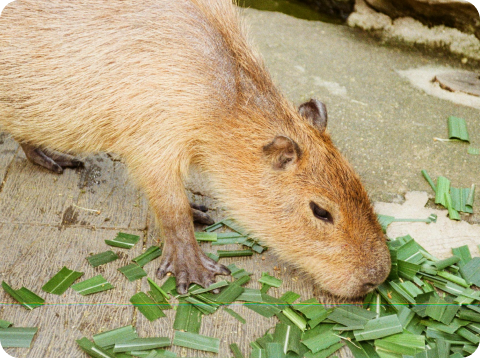
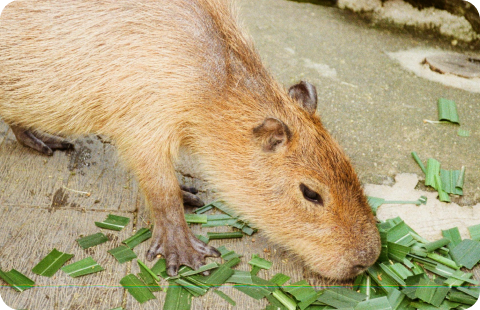
Revisions2 5.1

diff --git a/about.html b/about.html
@@ -87,40 +87,30 @@
           </div>
         </div>
 
-        <div class="subheading-text">
+        <div class="subheading-text" style="padding-bottom: 1.8rem">
           <h3>A Peaceful Place to Slow Down</h3>
         </div>
-        <div class="bodytext">
+        <div class="bodytext padding-bottom-story">
           <div class="storyimg1">
             <img src="assets/story1.png" width="100%" height="100%" />
           </div>
-          <p>
-            Capybara Connection began with a simple idea: create a welcoming
-            space where people can slow down and experience meaningful moments
-            with animals. In a world that often feels rushed and noisy, we’ve
-            built a peaceful farm setting where guests can pause, breathe
-            deeply, and enjoy the quiet joy of connecting with gentle, curious
-            animals.
+          <p class="no-margin">
+            Capybara Connection was created as a welcoming space to slow down
+            and connect with animals. In a calm, open farm setting, guests can
+            pause, breathe, and enjoy meaningful interactions with gentle,
+            curious capybaras.
           </p>
           <p>
-            Our facility is home to seven rescued capybaras, along with goats,
-            sheep, and rabbits. Each capybara in our care has a unique story,
-            and providing a safe, enriched home for them is at the heart of
-            everything we do. From spacious habitats and fresh produce to
-            enrichment that encourages natural behaviors, their wellbeing always
-            comes first.
+            Our facility is home to rescued capybaras along with goats, sheep,
+            and rabbits. Each animal is cared for in a safe, enriched
+            environment that supports their wellbeing and natural behaviors.
           </p>
           <p>
-            As a nonprofit organization, we rely on community support to
-            continue offering high-quality care and thoughtful, personal
-            experiences for every guest. Every visit and donation directly
-            supports the daily care and enrichment of our animals. Your support
-            helps us continue expanding enrichment programs and improving our
-            animals’ habitats for years to come.
+            As a nonprofit, we rely on community support to continue providing
+            high-quality animal care and thoughtful, personal experiences for
+            every guest.
           </p>
         </div>
-
-        <hr class="styled-hr-story" />
 
         <div class="subheading-text">
           <h3>Experiences Designed for Connection</h3>
@@ -129,29 +119,22 @@
           <div class="storyimg2">
             <img src="assets/story2.png" width="100%" height="100%" />
           </div>
-          <p>
-            Every visit to Capybara Connection is intentionally designed to feel
-            relaxed, personal, and engaging. Whether you choose a Private
-            Capybara Encounter or time in Capybara Commons, you’ll have the
-            opportunity to connect with our animals in a calm and welcoming
-            environment.
+          <p class="no-margin">
+            Every visit to Capybara Connection is designed to feel relaxed,
+            personal, and engaging. Whether you choose a private encounter or
+            time in Capybara Commons, you’ll have the opportunity to connect
+            with our animals in a calm, welcoming environment.
           </p>
           <p>
-            Our private encounters offer dedicated, guided time with two
-            capybaras in a small-group setting, allowing guests to learn about
-            their personalities and natural behaviors while enjoying safe,
-            supervised interaction. Full access to Capybara Commons is included
-            with every private encounter. In our open farm area, guests can meet
-            the capybaras and their friendly animal neighbors in a warm,
-            hands-on setting. We also offer sensory-friendly hours on Tuesdays,
-            creating a quieter, lower-stimulation experience for those who
-            prefer a more peaceful pace.
+            Our private encounters offer guided, small-group interaction with
+            capybaras, while our open farm area provides a warm, hands-on
+            experience with capybaras and other friendly animals.
+            Sensory-friendly hours on Tuesdays offer a quieter,
+            lower-stimulation option.
           </p>
           <p>
-            We hope each guest leaves feeling refreshed, inspired, and a little
-            more connected to the animals and the natural world around them.
-            Whether it’s your first visit or your fifth, there’s always
-            something new to notice and appreciate.
+            We hope each guest leaves feeling refreshed, inspired, and more
+            connected to the animals.
           </p>
         </div>
       </div>

diff --git a/css/capystyles.css b/css/capystyles.css
@@ -120,7 +120,7 @@ h4 {
   display: flex;
   justify-content: center;
   width: 100%;
-  padding: 0 0.5rem 6.25rem 0.5rem;
+  padding: 0 0.6rem 6.25rem 0.6rem;
 }
 
 .greenbg {
@@ -376,7 +376,7 @@ tr > th:last-child {
   display: flex;
   flex-direction: column;
   gap: 1rem;
-  padding: 1.5rem;
+  padding: 1.75rem;
   color: #fbfbf4;
 }
 
@@ -647,7 +647,7 @@ tr > th:last-child {
   flex-direction: column;
   flex: 0 1 55%;
   position: relative;
-  border-radius: 80px 20px 80px 20px;
+  border-radius: 70px 15px 70px 15px;
   padding: 3.44rem 4%;
   gap: 24px;
   background-color: #fbfbf4;
@@ -682,7 +682,7 @@ tr > th:last-child {
   max-width: 480px;
   min-width: 450px;
   height: auto;
-  border-radius: 20px 20px 20px 70px;
+  border-radius: 15px 15px 15px 65px;
   overflow: hidden;
   margin-bottom: 1rem;
 }
@@ -695,14 +695,14 @@ tr > th:last-child {
   max-width: 480px;
   min-width: 450px;
   height: auto;
-  border-radius: 20px 70px 20px 20px;
+  border-radius: 15px 65px 15px 15px;
   overflow: hidden;
   margin-bottom: 1rem;
 }
 
 .date-range {
   width: 100%;
-  padding: 1.875rem 3.125rem;
+  padding: 1.45rem 3.125rem;
   background-color: #8c6b4f;
   color: #fbfbf4;
 }
@@ -712,10 +712,12 @@ tr > th:last-child {
   flex-direction: column;
   flex: 1;
   gap: 30px;
-  padding: 2.18rem 3.125rem 3.125rem 3.125rem;
+  padding: 1.875rem 3.125rem 2.5rem 3.125rem;
   background-color: #f2edd0;
-  font-size: 1.3rem;
-  line-height: 1.8;
+  font-family: "Bonnie", sans-serif;
+  font-weight: 600;
+  font-size: 1.25rem;
+  line-height: 1.4;
   letter-spacing: 0%;
   color: #265269;
 }
@@ -801,12 +803,15 @@ tr > th:last-child {
   margin: 0 auto;
 }
 
+.no-margin {
+  margin: 0;
+}
+
 .storyimg1 {
   float: right;
   width: 48%;
   max-width: 480px;
   height: auto;
-  border-radius: 20px;
   overflow: hidden;
   margin: 0 0 1.25rem 2.5rem;
 }
@@ -816,18 +821,12 @@ tr > th:last-child {
   width: 48%;
   max-width: 480px;
   height: auto;
-  border-radius: 20px;
   overflow: hidden;
-  margin: 0 2.5rem 1.25rem 0;
+  margin: 0 2.5rem 0 0;
 }
 
-.styled-hr-story {
-  border: none;
-  height: 1px;
-  background-color: #c74a3a;
-  width: 100%;
-  max-width: 1000px;
-  margin: 35px auto;
+.padding-bottom-story {
+  padding-bottom: 3.75rem;
 }
 
 .team-card-text {
@@ -936,13 +935,8 @@ tr > th:last-child {
   height: 300px;
 }
 
-.styled-hr-lightbox {
-  border: none;
-  height: 1px;
-  background-color: #c74a3a;
-  width: 100%;
-  max-width: 1125px;
-  margin: 50px auto;
+.padding-bottom-lightbox {
+  padding-bottom: 2.625rem;
 }
 
 /* START STYLING LIGHTBOX */
@@ -1106,7 +1100,7 @@ img.hover-shadow {
   flex-direction: column;
   flex: 0 0 53%;
   position: relative;
-  border-radius: 80px 20px 80px 20px;
+  border-radius: 70px 15px 70px 15px;
   padding: 3.44rem 4%;
   gap: 1.5rem;
   background-color: #fbfbf4;
@@ -1170,8 +1164,12 @@ img.hover-shadow {
   transform: rotate(90deg);
 }
 
+.padding-bottom-faq {
+  padding-bottom: 4.688rem;
+}
+
 .contact-section {
-  background-image: url("../assets/LargeCapyBG.jpg");
+  background-image: url("../assets/LargeCapyBG.png");
   background-repeat: no-repeat;
   background-size: cover;
   background-position: center;
@@ -1188,7 +1186,7 @@ img.hover-shadow {
   justify-self: right;
   max-width: 750px;
   width: 58%;
-  border-radius: 80px 20px 80px 20px;
+  border-radius: 65px 15px 65px 15px;
   padding: 55px;
   gap: 24px;
 }
@@ -1298,7 +1296,7 @@ label {
   padding: 2.5rem 3.44rem 3.44rem 3.44rem;
   transform: translateX(-150%);
   animation: slideInLeft 0.8s forwards;
-  border-radius: 20px 70px 20px 70px;
+  border-radius: 15px 65px 15px 65px;
   border: 1px solid #265269;
   display: flex;
   flex-direction: column;

diff --git a/index.html b/index.html
@@ -91,9 +91,8 @@
             <div class="text-area">
               <h3>Capybara Commons</h3>
               <p>
-                Step into our open farm area to meet our capybaras and their
-                friendly animal neighbors, including goats, sheep, and rabbits,
-                in a relaxed, interactive setting.
+                Meet our capybaras and friendly farm animals, including goats,
+                sheep, and rabbits, in a relaxed, open-farm setting.
               </p>
               <div class="button-container">
                 <button class="button-secondary">BUY TICKETS</button>
@@ -105,9 +104,8 @@
             <div class="text-area">
               <h3>Private Encounters</h3>
               <p>
-                Enjoy a small-group experience with dedicated time to connect,
-                learn, and interact up close with our capybaras. Perfect for a
-                more personal, guided visit.
+                Enjoy a small-group or individual experience with dedicated time
+                to interact closely with our capybaras.
               </p>
               <div class="button-container">
                 <button class="button-secondary">BUY TICKETS</button>
@@ -119,9 +117,9 @@
             <div class="text-area">
               <h3>Sensory Tuesdays</h3>
               <p>
-                Designed for guests who prefer a quieter, low-stimulation
-                environment, this special session offers a calm and comfortable
-                way to meet our animals.
+                Experience a quieter, low-stimulation session with reduced
+                capacity and opportunities to interact with our capybaras and
+                farm animals.
               </p>
               <div class="button-container">
                 <button class="button-secondary">BUY TICKETS</button>

diff --git a/facts.html b/facts.html
@@ -80,7 +80,7 @@
       </div>
     </div>
 
-    <div class="section greenbg">
+    <div class="section">
       <div class="container">
         <div class="section-heading">
           <div class="heading-text">
@@ -162,7 +162,7 @@
       </div>
     </div>
 
-    <div class="section">
+    <div class="section greenbg">
       <div class="container">
         <div class="section-heading">
           <div class="heading-text">

diff --git a/faq.html b/faq.html
@@ -92,7 +92,7 @@
           <h3>Tickets & Visits</h3>
         </div>
 
-        <div class="faq-container">
+        <div class="faq-container padding-bottom-faq">
           <div class="faq-content">
             <div class="faq-q">
               <h4>What types of tickets are available?</h4>
@@ -159,8 +159,6 @@
             </div>
           </div>
         </div>
-
-        <hr class="styled-hr-story" style="margin: 45px auto" />
 
         <div class="subheading-text">
           <h3>Animals & Interaction</h3>

diff --git a/meet.html b/meet.html
@@ -90,7 +90,7 @@
           <h3>The Capybara Crew</h3>
         </div>
 
-        <div class="lightbox-container">
+        <div class="lightbox-container padding-bottom-lightbox">
           <div class="lightbox-content">
             <div class="lightbox-image">
               <img
@@ -162,7 +162,6 @@
           </div>
         </div>
 
-        <hr class="styled-hr-lightbox" />
         <div class="subheading-text wide1125">
           <h3>Our Farm Friends</h3>
         </div>

diff --git a/plan.html b/plan.html
@@ -107,7 +107,7 @@
             <div class="hours-days">
               <p>Open Daily 11:00 AM - 3:00 PM</p>
               <p>Sensory Tuesdays 1:00 PM - 3:00 PM</p>
-              <p style="font-size: 1rem">
+              <p style="font-size: 1rem; font-weight: 400">
                 We are closed December25<sup>th</sup> (Christmas Day)
               </p>
             </div>